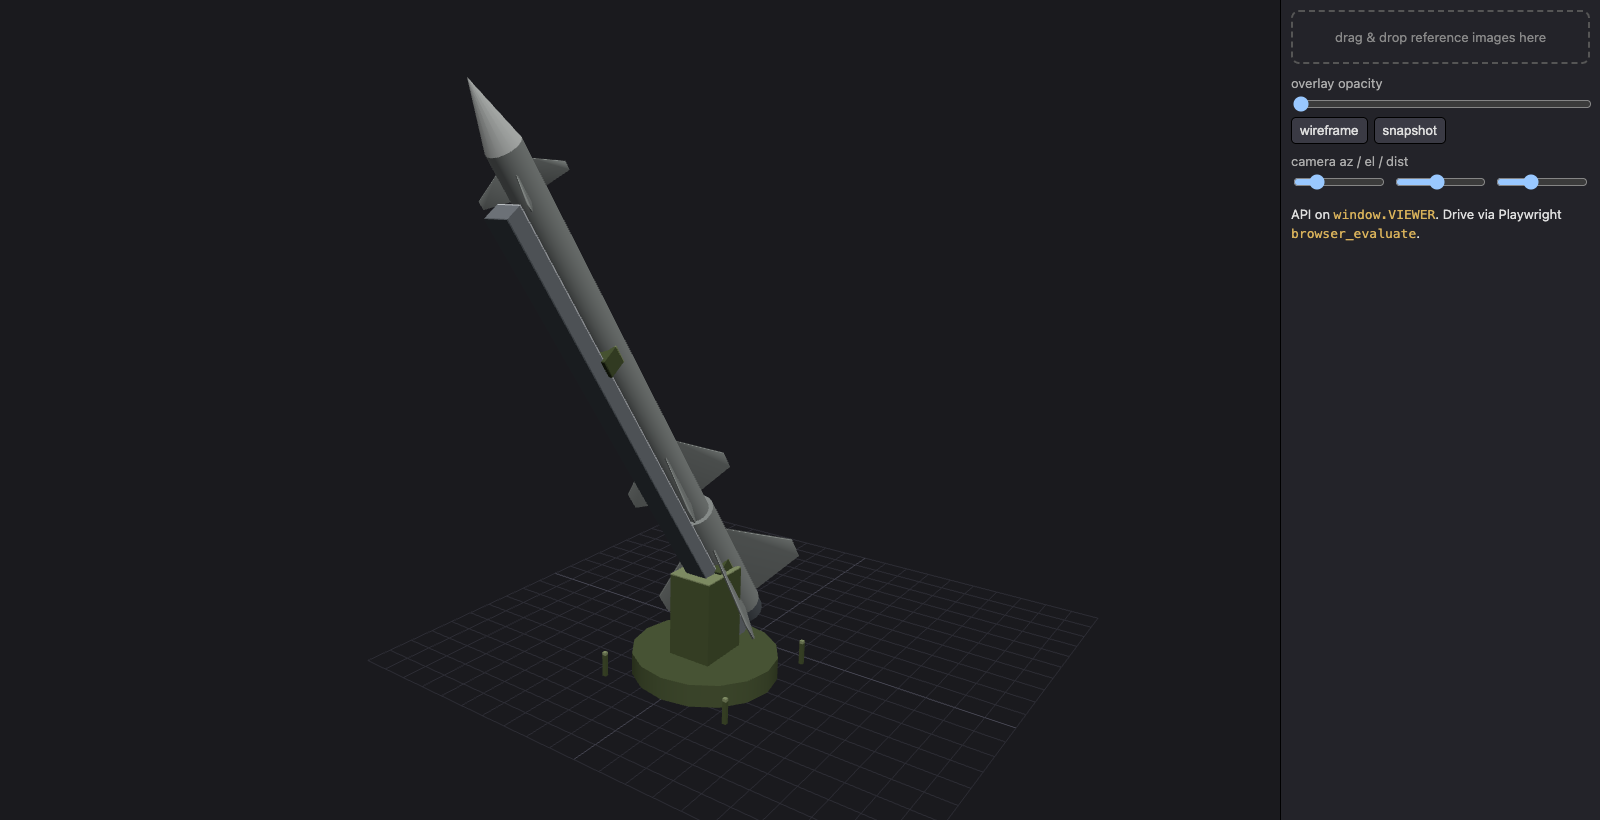
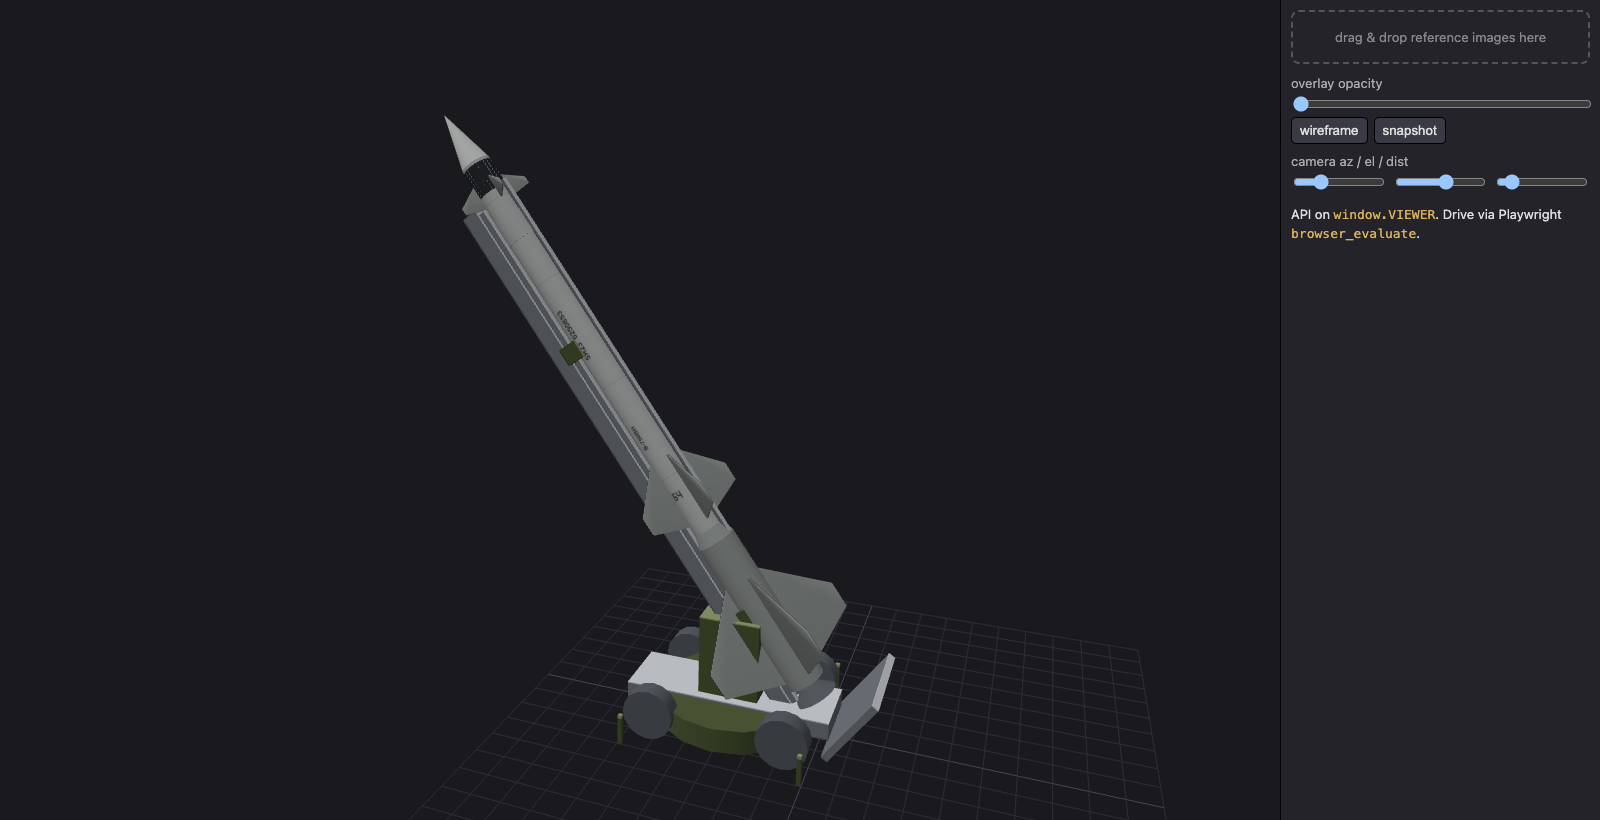
feat(modelgen): S-75 v3 — body detail + CanvasTexture stencils/serial (ultra-real)
Detail: cable conduit, warhead band, dark seeker nose band (new gunGrey), flared
nozzle, booster→sustainer taper, guide rails, wheeled chassis (4 wheels), tilted
blast deflector (2nd rig pose).

TEXTURE SYSTEM (new capability — voxel was vertex-colour only): an operator may now
return its OWN mesh; buildSpec adds it into the (rig-aware) group via an inner
container. texturedCylinder draws a CanvasTexture livery — panel rings + real Cyrillic
stencils/serial (5Я23 0250853 / В-750ВН / БЧ). Canvas is 512×2048 to match the unrolled
body aspect (tall, or text smears). Markings are representative, flagged in needs[].
27/27 tests green.

Changed region(s): [[0.2812, 0.0915, 0.5625, 0.9451], [0.9375, 0.2134, 0.9688, 0.2439], [0.875, 0.2134, 0.9062, 0.2439]]

diff --git a/src/props/voxel-interp.js b/src/props/voxel-interp.js
@@ -14,33 +14,48 @@ export function buildSpec(spec) {
   const root = new THREE.Group();
   root.name = plan.id;
 
-  const builders = new Map();                // rigKey → MeshBuilder
+  const builders = new Map();   // rigKey → MeshBuilder (merged box/cylinder parts)
+  const extras = new Map();     // rigKey → [Object3D] (ops that return their OWN mesh, e.g. textured)
   for (const o of plan.ops) {
     const fn = OPS[o.op];
     if (!fn) throw new Error(`no voxel impl for operator '${o.op}'`);
     const key = o.rig || '__base';
-    if (!builders.has(key)) builders.set(key, new MeshBuilder());
-    fn(builders.get(key), o.args, o.tones, o.origin);
+    if (!builders.has(key)) { builders.set(key, new MeshBuilder()); extras.set(key, []); }
+    const ret = fn(builders.get(key), o.args, o.tones, o.origin);
+    if (ret && ret.isObject3D) extras.get(key).push(ret);   // a textured/standalone-mesh operator
   }
 
   const rigByName = new Map(plan.rig.map((r) => [r.name, r]));
-  for (const [key, b] of builders) {
-    const mesh = new THREE.Mesh(b.build(), voxelMaterial());
-    mesh.castShadow = true; mesh.receiveShadow = true;
-    if (key === '__base') { root.add(mesh); continue; }
-    const g = new THREE.Group(); g.name = key;
-    const rig = rigByName.get(key);
-    // A rig may carry a STATIC pose: rotate the group `pose` rad about `axis` around `pivot`.
-    // Parts are built at absolute coords, so we offset the mesh by −pivot and put the group at
-    // +pivot — net effect is rotation about the pivot (e.g. erecting a missile on its trunnion).
-    if (rig && Array.isArray(rig.pivot) && rig.pose != null) {
-      const [px, py, pz] = rig.pivot;
-      g.position.set(px, py, pz);
-      g.rotation[rig.axis || 'x'] = rig.pose;
-      mesh.position.set(-px, -py, -pz);
+  for (const key of builders.keys()) {
+    const rig = key === '__base' ? null : rigByName.get(key);
+    const posed = rig && Array.isArray(rig.pivot) && rig.pose != null;
+    // `outer` = the named rig group (carries the STATIC pose: rotate `pose` rad about `axis`).
+    // `container` = where meshes actually go; for a posed rig it is offset by −pivot so the
+    // outer rotation pivots about `pivot` (e.g. erecting a missile on its trunnion). Parts are
+    // built at absolute coords; the −pivot container makes the net transform a rotation about pivot.
+    let outer = root, container = root;
+    if (key !== '__base') {
+      outer = new THREE.Group(); outer.name = key;
+      if (rig) outer.userData.rig = rig;
+      container = outer;
+      if (posed) {
+        const [px, py, pz] = rig.pivot;
+        outer.position.set(px, py, pz);
+        outer.rotation[rig.axis || 'x'] = rig.pose;
+        container = new THREE.Group(); container.position.set(-px, -py, -pz); outer.add(container);
+      }
+      root.add(outer);
     }
-    if (rig) g.userData.rig = rig;
-    g.add(mesh); root.add(g);
+    const b = builders.get(key);
+    if (b.pos.length) {                       // merged vertex-colour mesh (box/cylinder parts)
+      const mesh = new THREE.Mesh(b.build(), voxelMaterial());
+      mesh.castShadow = true; mesh.receiveShadow = true;
+      container.add(mesh);
+    }
+    for (const ex of extras.get(key)) {       // standalone meshes (own material, e.g. CanvasTexture)
+      ex.castShadow = true; ex.receiveShadow = true;
+      container.add(ex);
+    }
   }
   root.userData.footprint = plan.footprint;
   return root;

diff --git a/src/props/operators/round.js b/src/props/operators/round.js
@@ -56,3 +56,48 @@ export function deltaFins(b, a, t, o) {
     g.dispose();
   }
 }
+
+// Draw a missile-body livery onto a canvas → CanvasTexture. The cylinder UV wraps the canvas
+// X around the circumference and Y along the length, so a mark at {x:0..1 around, y:0..1 along}
+// lands at that spot on the body. `marks` are stencils/serials: {text,x,y,size,rot,color,weight}.
+function _bodyTexture(baseHex, marks) {
+  // Cylinder UV: X = around the circumference, Y = along the LENGTH. A missile body is far
+  // longer than it is round, so the canvas must be tall (Y≫X) or text smears. 512×2048 ≈ the
+  // unrolled aspect for a slender body.
+  const W = 512, H = 2048;
+  const cv = document.createElement('canvas'); cv.width = W; cv.height = H;
+  const c = cv.getContext('2d');
+  c.fillStyle = baseHex; c.fillRect(0, 0, W, H);
+  c.strokeStyle = 'rgba(18,18,22,0.22)'; c.lineWidth = 2;                       // panel rings (around body)
+  for (const v of [0.1, 0.32, 0.6, 0.85]) { c.beginPath(); c.moveTo(0, v * H); c.lineTo(W, v * H); c.stroke(); }
+  c.strokeStyle = 'rgba(18,18,22,0.10)';                                         // faint lengthwise seams
+  for (const u of [0.0, 0.5]) { c.beginPath(); c.moveTo(u * W, 0); c.lineTo(u * W, H); c.stroke(); }
+  for (const m of marks) {
+    c.save();
+    c.translate((m.x ?? 0.5) * W, (m.y ?? 0.5) * H);
+    c.rotate(m.rot ?? 0);
+    c.fillStyle = m.color || '#26262a';
+    c.font = `${m.weight || 'bold'} ${m.size || 30}px "Arial Narrow","Helvetica Neue",sans-serif`;
+    c.textAlign = 'center'; c.textBaseline = 'middle';
+    c.fillText(m.text, 0, 0);
+    c.restore();
+  }
+  const tex = new THREE.CanvasTexture(cv);
+  tex.colorSpace = THREE.SRGBColorSpace;
+  tex.anisotropy = 8;
+  return tex;
+}
+
+// texturedCylinder — like `cylinder`, but returns its OWN Mesh carrying a CanvasTexture (so it
+// can show real stencils/serials — vertex colours can't). buildSpec adds the returned mesh into
+// the part's (rig-aware) group. Args: r, h; opts: r2, axis, seg, tone (base colour), marks[].
+export function texturedCylinder(b, a, t, o) {
+  const seg = a.seg ?? 24;
+  const g = new THREE.CylinderGeometry(a.r2 ?? a.r, a.r, a.h, seg, 1);
+  const mat = new THREE.MeshLambertMaterial({ map: _bodyTexture(t[a.tone || 'mid'], a.marks || []) });
+  const mesh = new THREE.Mesh(g, mat);
+  const or = ORIENT[a.axis ?? 'z'];
+  mesh.rotation.set(or.rx || 0, or.ry || 0, or.rz || 0);
+  mesh.position.set(o.x, o.y, o.z);
+  return mesh;
+}

diff --git a/src/props/palette.js b/src/props/palette.js
@@ -21,6 +21,8 @@ export const PALETTE = {
                glb: { rgb: [0.32, 0.37, 0.22], rough: 0.8, metal: 0.0 } },
   missileGrey:{ voxel: { hi: '#c4c8c6', mid: '#9aa09d', lo: '#787e7b', slot: '#5e6360', bright: '#d8dcd9' },
                glb: { rgb: [0.55, 0.57, 0.55], rough: 0.6, metal: 0.1 } },
+  gunGrey:   { voxel: { hi: '#4a4e52', mid: '#34383c', lo: '#23262a', slot: '#16181b', bright: '#5e636a' },
+               glb: { rgb: [0.10, 0.11, 0.12], rough: 0.5, metal: 0.3 } },
 };
 
 export function resolveMaterial(name, target = 'voxel') {

diff --git a/src/props/operators/manifest.js b/src/props/operators/manifest.js
@@ -12,6 +12,7 @@ export const MANIFEST = {
   cone:        { args: ['r', 'h'],                dims: ['r', 'h'] },
   finSet:      { args: ['count', 'root', 'span'], dims: ['root', 'span'] },
   deltaFins:   { args: ['count', 'root', 'span'], dims: ['root', 'span'] },
+  texturedCylinder: { args: ['r', 'h'],           dims: ['r', 'h'] },
 };
 
 export const operatorNames = () => Object.keys(MANIFEST);

diff --git a/src/props/operators/index.js b/src/props/operators/index.js
@@ -3,4 +3,4 @@
 // THREE-bound round operators here does NOT pull `three` into any node-tested module.)
 export { bevelBox, panel, plate, finSet } from './structural.js';
 export { drawerStack, legs } from './furniture.js';
-export { cylinder, cone, deltaFins } from './round.js';
+export { cylinder, cone, deltaFins, texturedCylinder } from './round.js';
